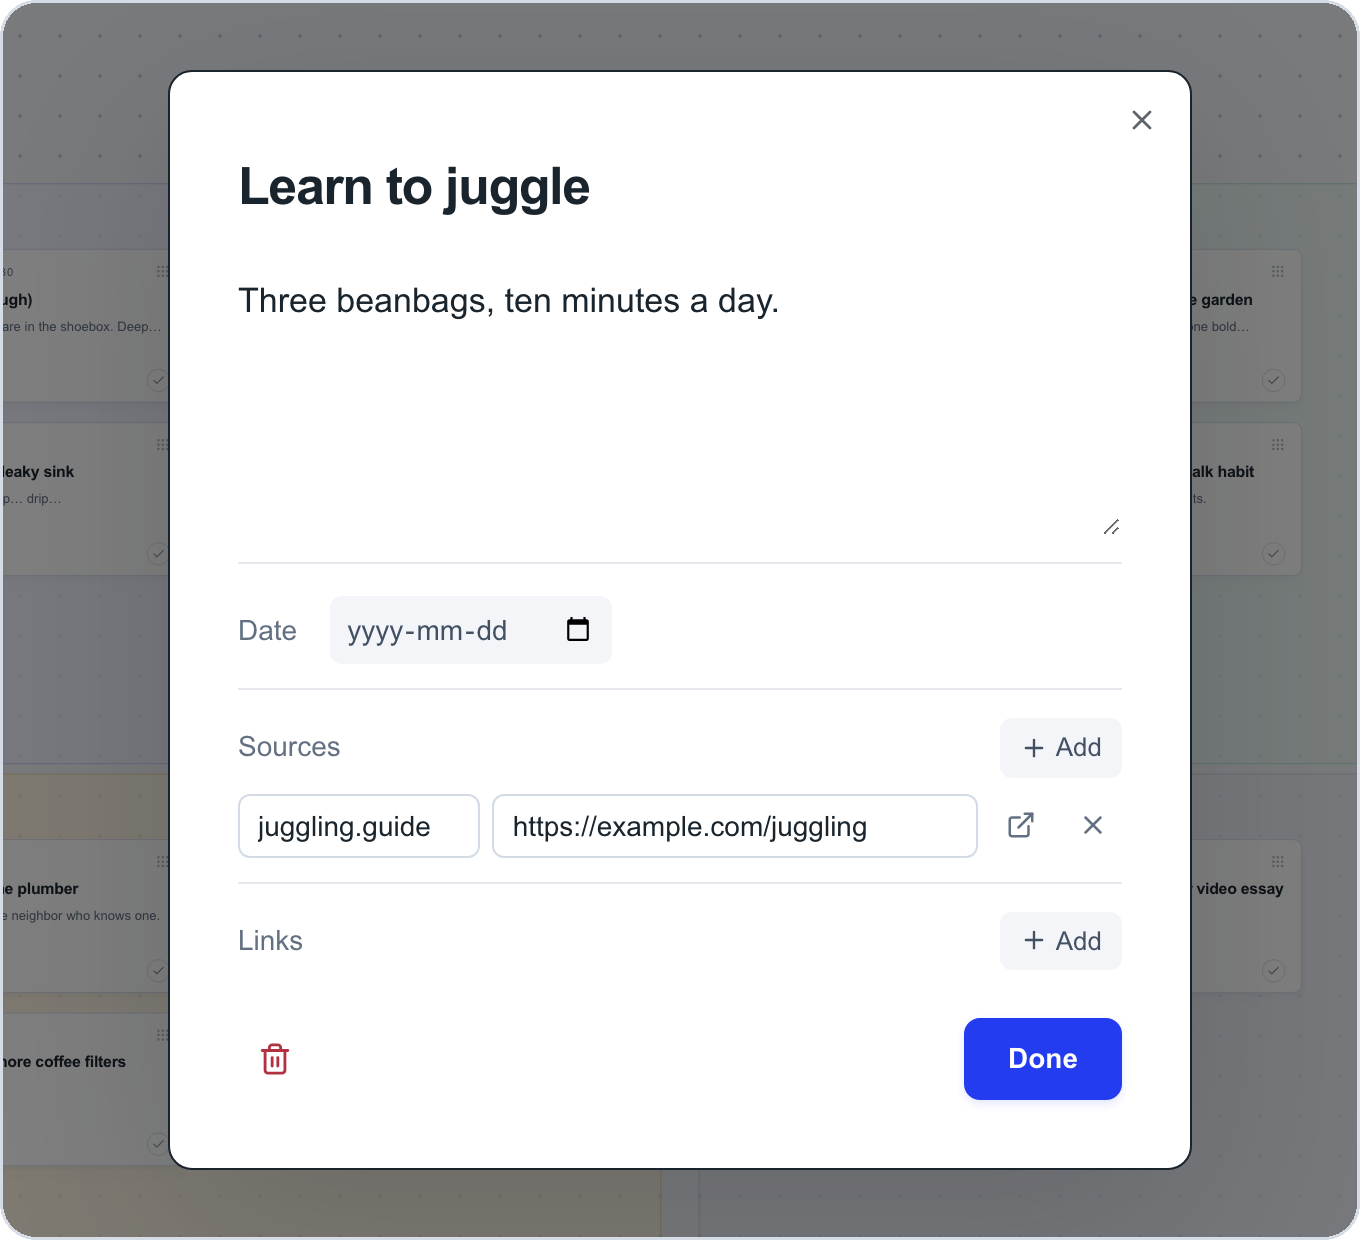
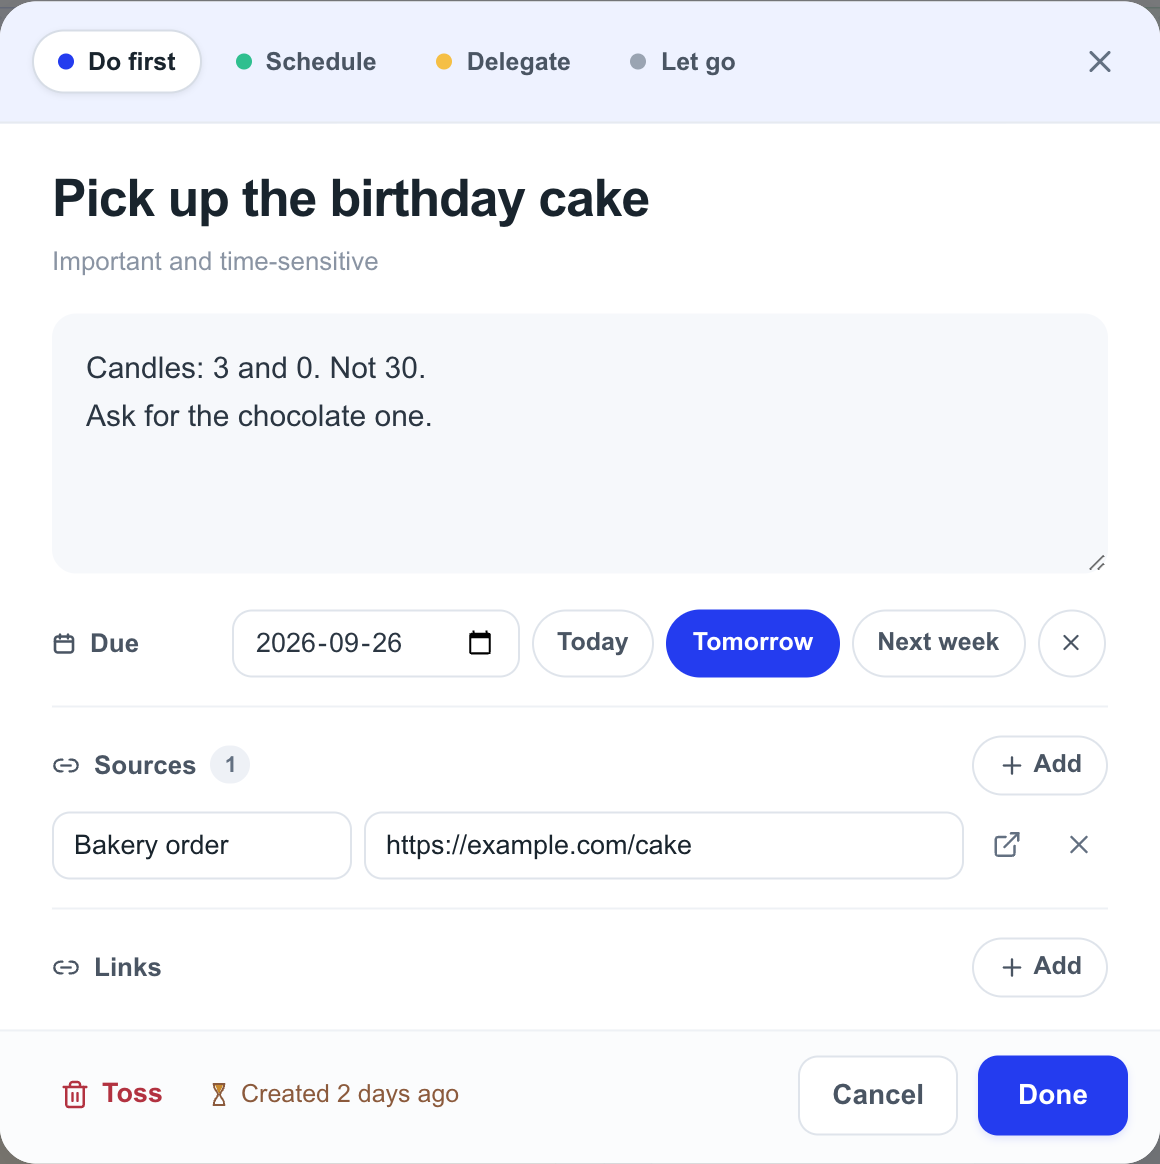
Refresh README screenshots for the new board, editor and done list

diff --git a/README.md b/README.md
@@ -46,10 +46,14 @@ A small secret: the more you look after **Schedule**, the quieter **Do first** g
 ## Up close
 
 <p align="center">
-  <img alt="Editing a card: title, notes, a date, and a list of sources and links" src="docs/assets/screenshot-note.png" width="560">
+  <img alt="Editing a card: quadrant picker, title, notes, a due date with quick picks, and a list of sources" src="docs/assets/screenshot-note.png" width="440">
+  &nbsp;
+  <img alt="The Done and dusted list: finished tasks grouped by day, one opened to show its original card and how long it took" src="docs/assets/screenshot-done.png" width="380">
 </p>
 
-Click any card to open it. Write as much or as little as you like, add a date, and keep the links you need right next to the task.
+Click any card to open it. Write as much or as little as you like, pick a date in one tap, and keep the links you need right next to the task. Deadlines warm up from grey to red as they get close (overdue ones catch a little fire), and a tiny hourglass keeps track of how long a task has been hanging around.
+
+Tick something off and it bursts into confetti and flies into **Done & dusted**, where you can open any finished task to see the original card, whether it was on time, and how long it took. Changed your mind? **Put back** plants it on the board again.
 
 ## Where do my tasks go?
 
